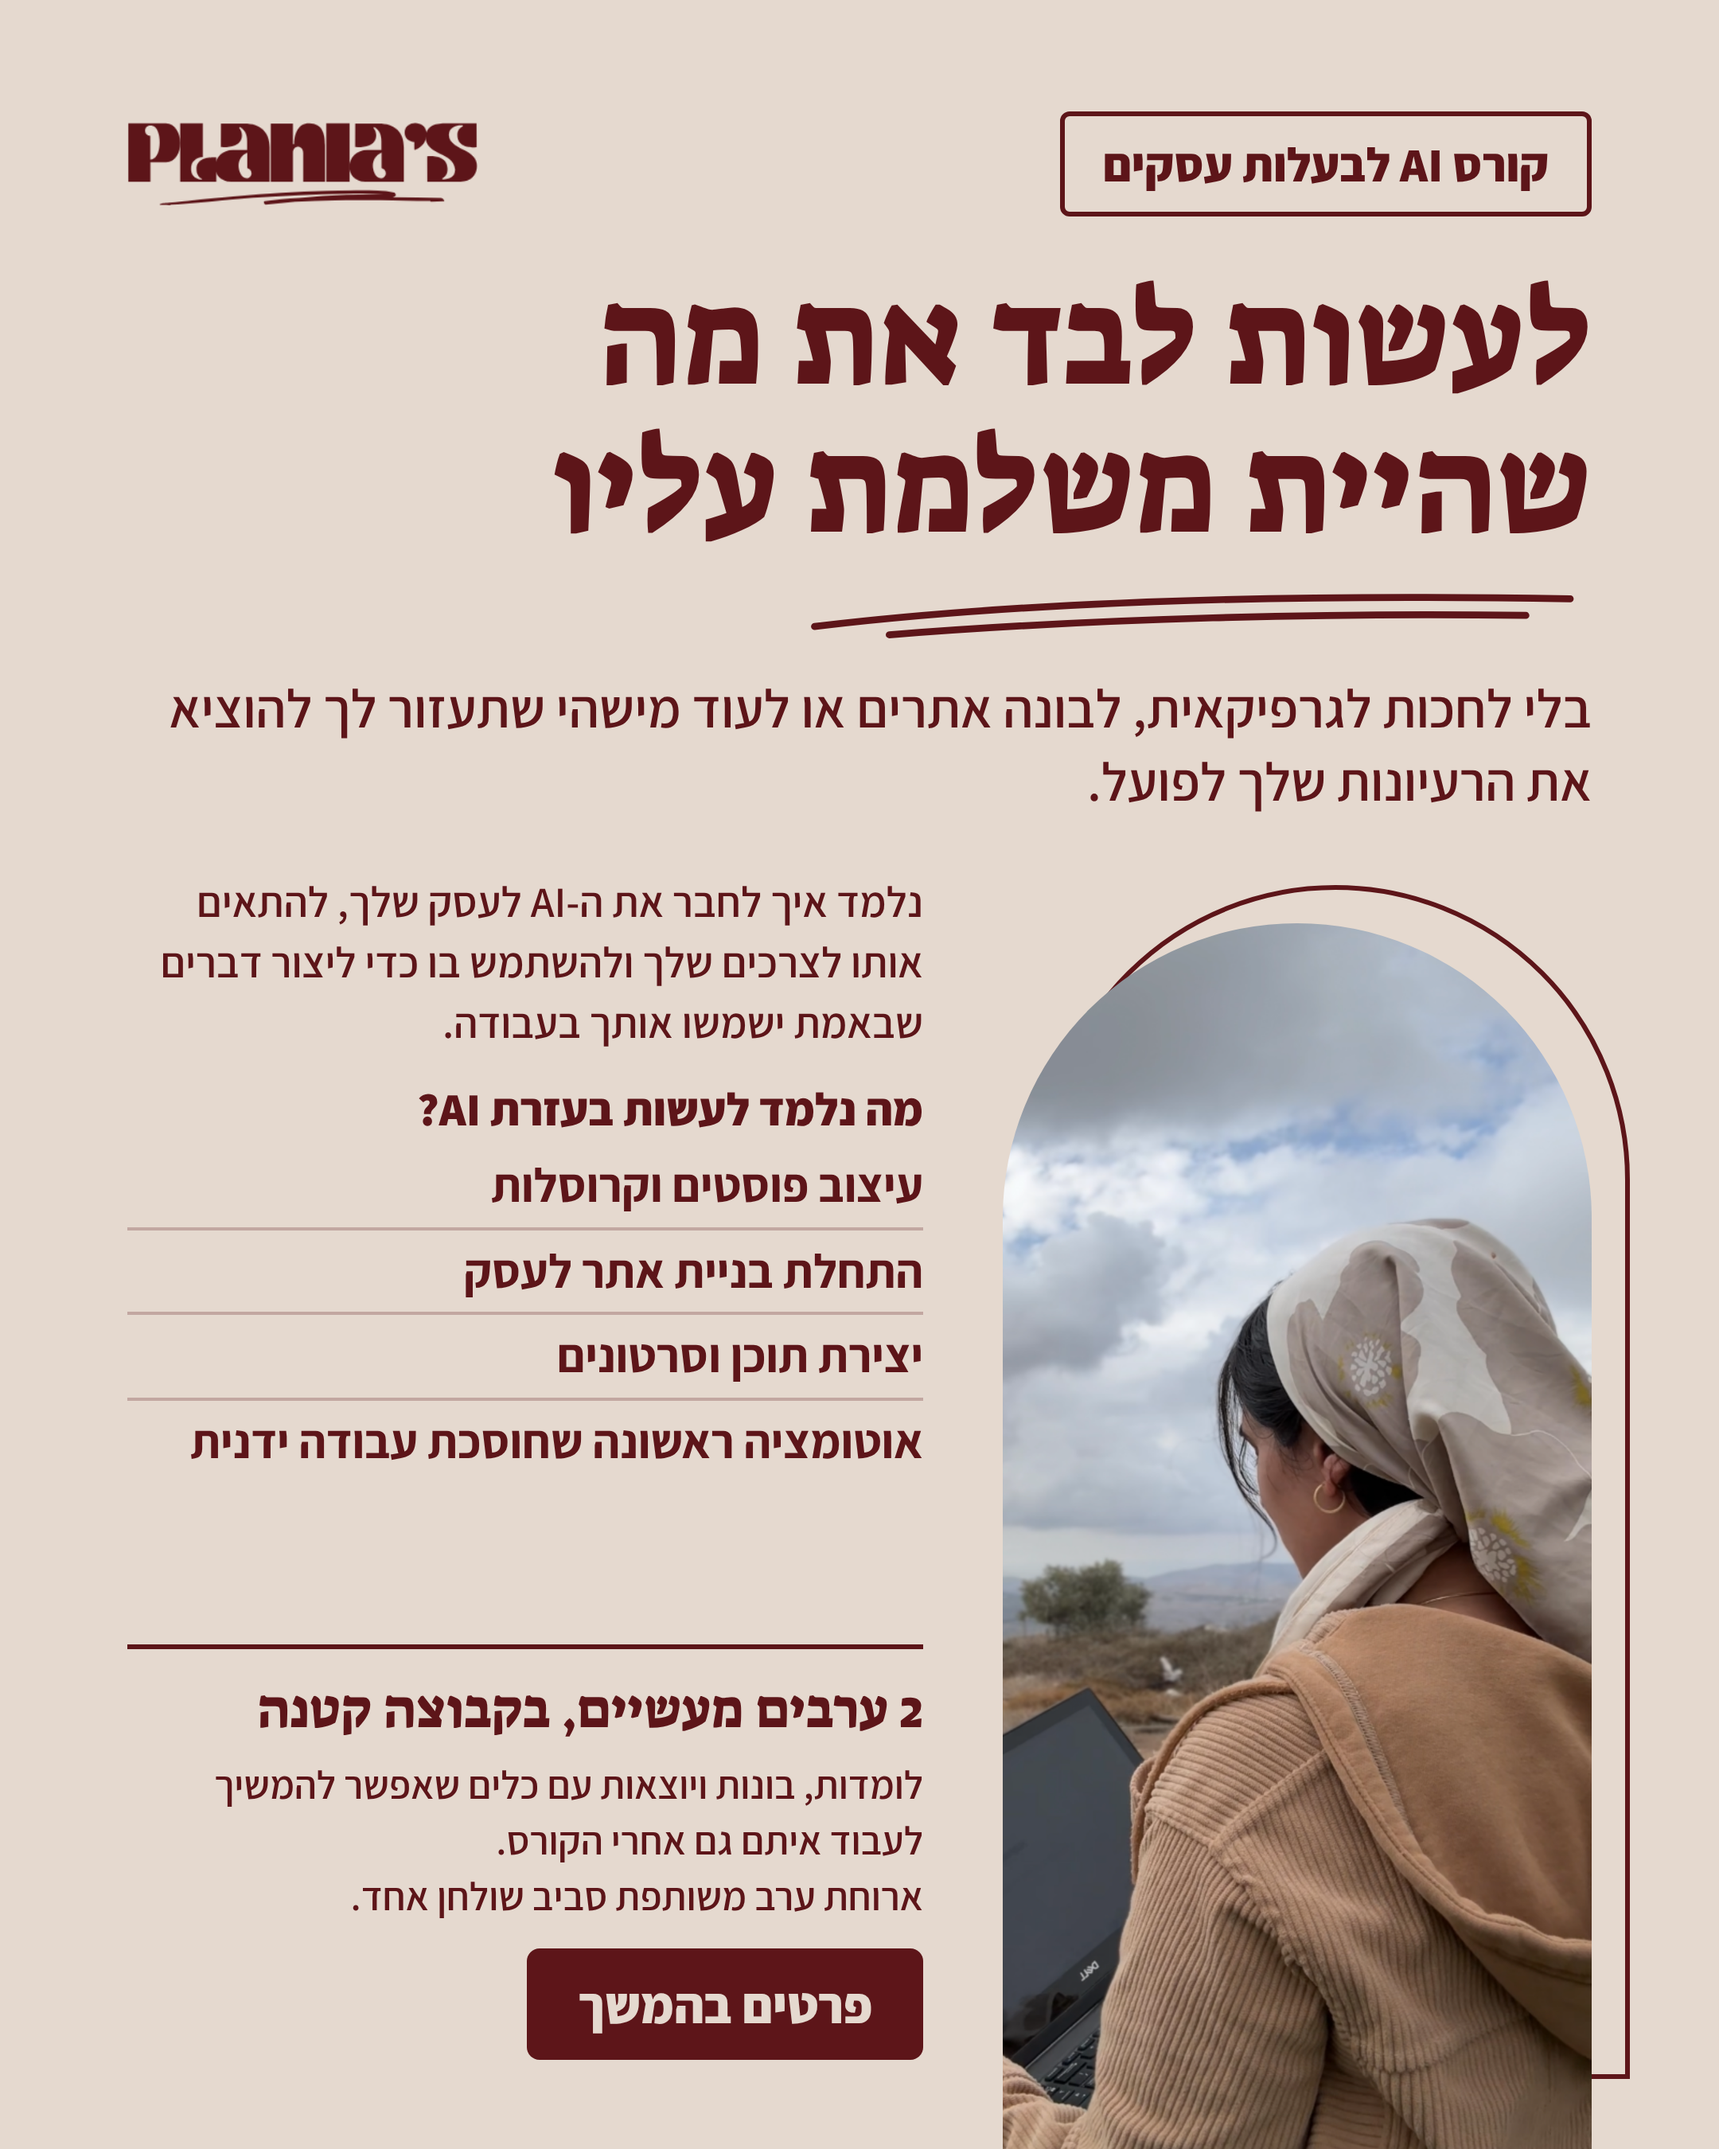
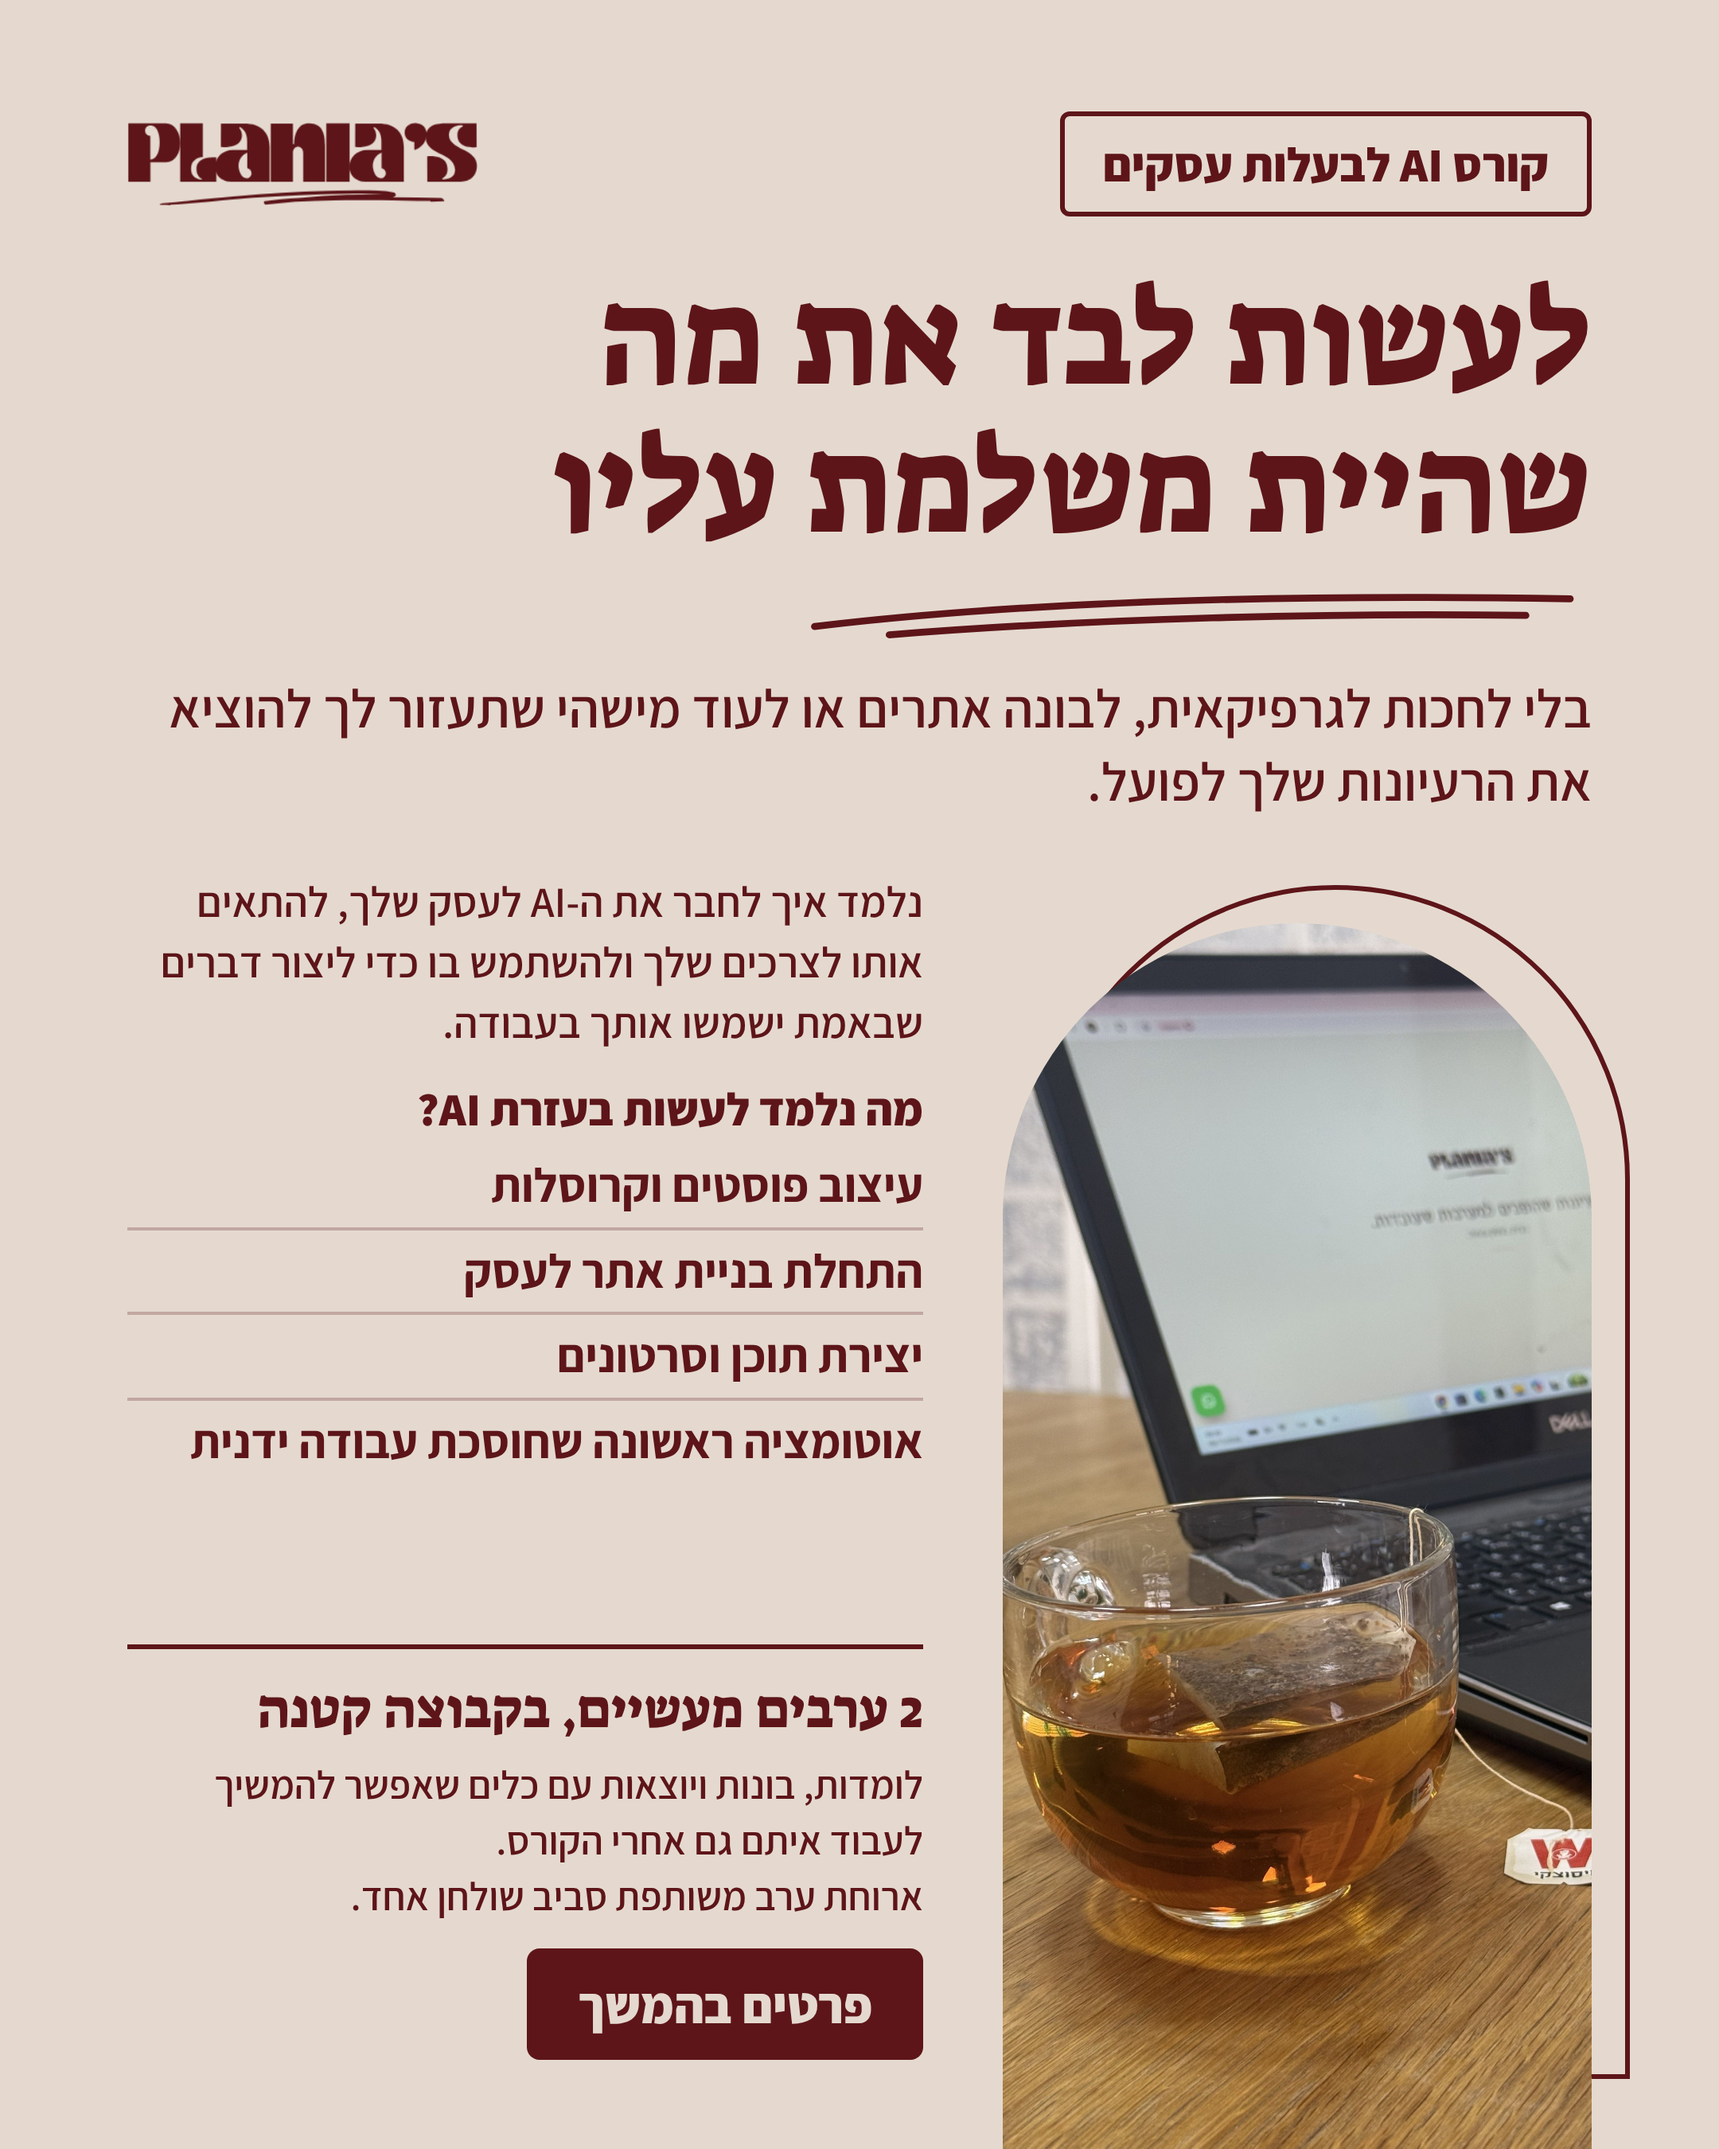
Flyer: swap photo for tea and laptop shot
Claude-Session: https://claude.ai/code/session_01FAztRn3s498VxUBgDg5pS8

Changed region(s): [[0.5583, 0.4044, 0.9306, 1.0]]

diff --git a/marketing/course-ad/flyer-photo.html b/marketing/course-ad/flyer-photo.html
@@ -15,7 +15,7 @@ body{font-family:'Assistant',sans-serif}
 h1{font-family:'Suez One',serif;font-weight:400;font-size:86px;line-height:1.08;margin-top:30px}
 .swoosh{display:block;width:500px;height:40px;margin-top:12px}
 .arch-line{position:absolute;right:56px;top:556px;width:370px;height:750px;border:3px solid var(--wine);border-radius:185px 185px 0 0}
-.arch{position:absolute;right:80px;top:580px;width:370px;height:770px;border-radius:185px 185px 0 0;overflow:hidden;background:url(hadarel-photo.png) 100% 78%/auto 112% no-repeat}
+.arch{position:absolute;right:80px;top:580px;width:370px;height:770px;border-radius:185px 185px 0 0;overflow:hidden;background:url(tea-photo.jpg) 25% 55%/cover no-repeat}
 .intro{font-size:34px;font-weight:600;line-height:1.35;margin-top:18px;max-width:900px}
 .side{position:absolute;left:80px;top:548px;width:500px}
 .lead{font-size:27px;font-weight:600;line-height:1.4}
@@ -32,7 +32,7 @@ li:last-child{border:none}
 <body>
 <section id="flyer">
   <div class="arch-line"></div>
-  <div class="arch" role="img" aria-label="הדראל עם מחשב נייד בטבע"></div>
+  <div class="arch" role="img" aria-label="כוס תה ליד מחשב נייד עם האתר של פלאניה"></div>
   <div class="top">
     <div class="row"><span class="tag">קורס AI לבעלות עסקים</span><img class="logo" src="logo.png" alt="Plania's"></div>
     <h1>לעשות לבד את מה<br>שהיית משלמת עליו</h1>
